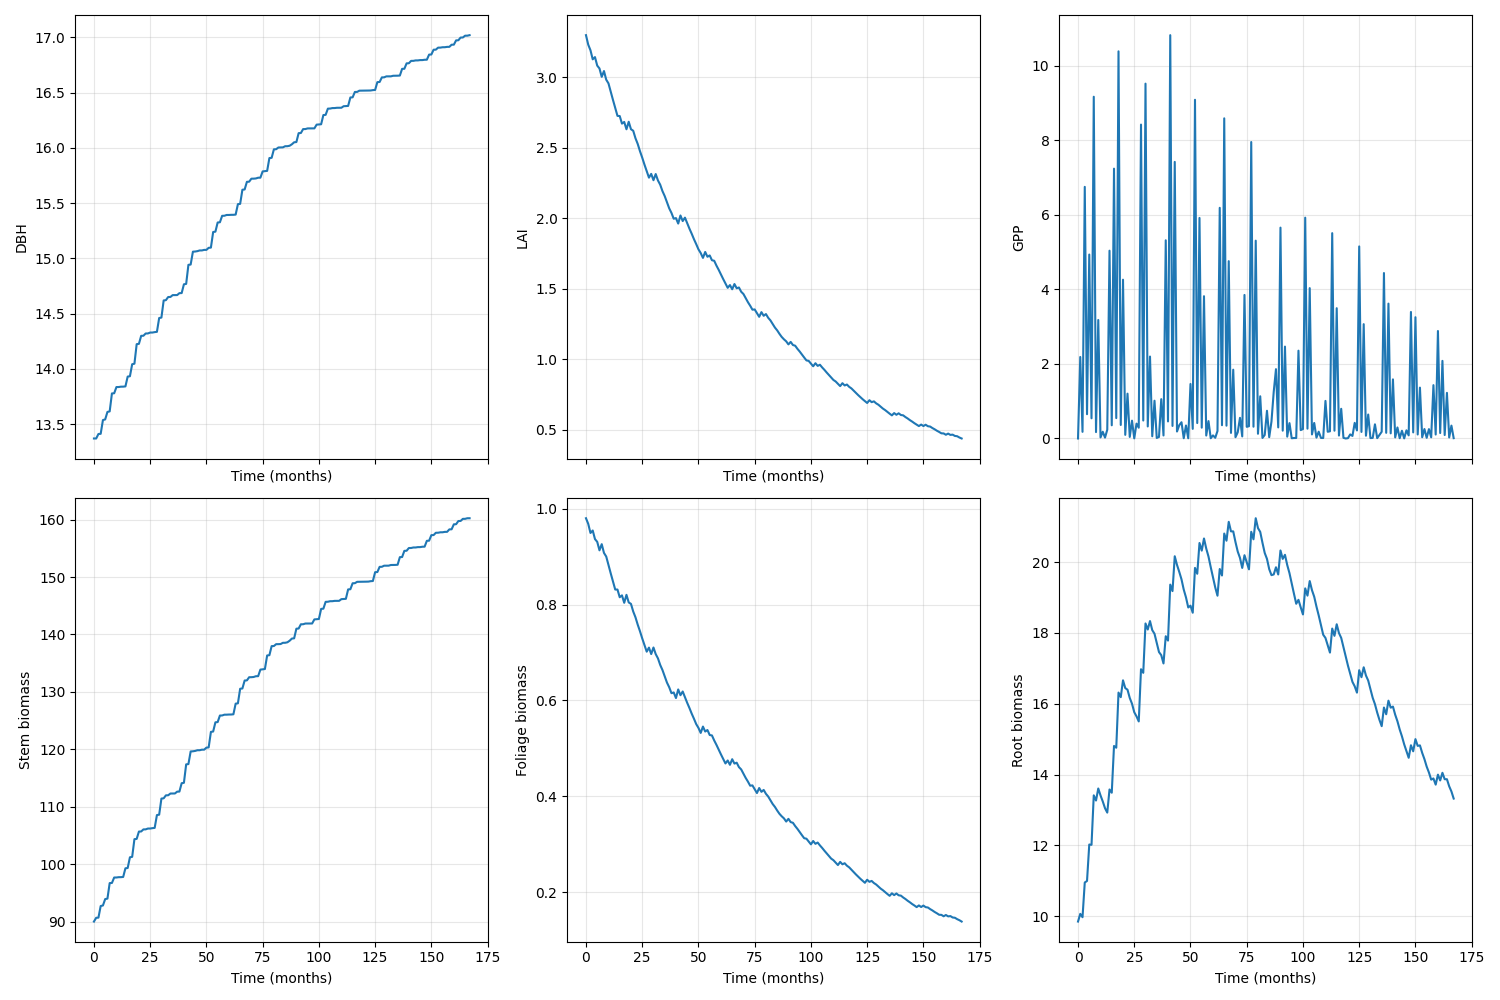
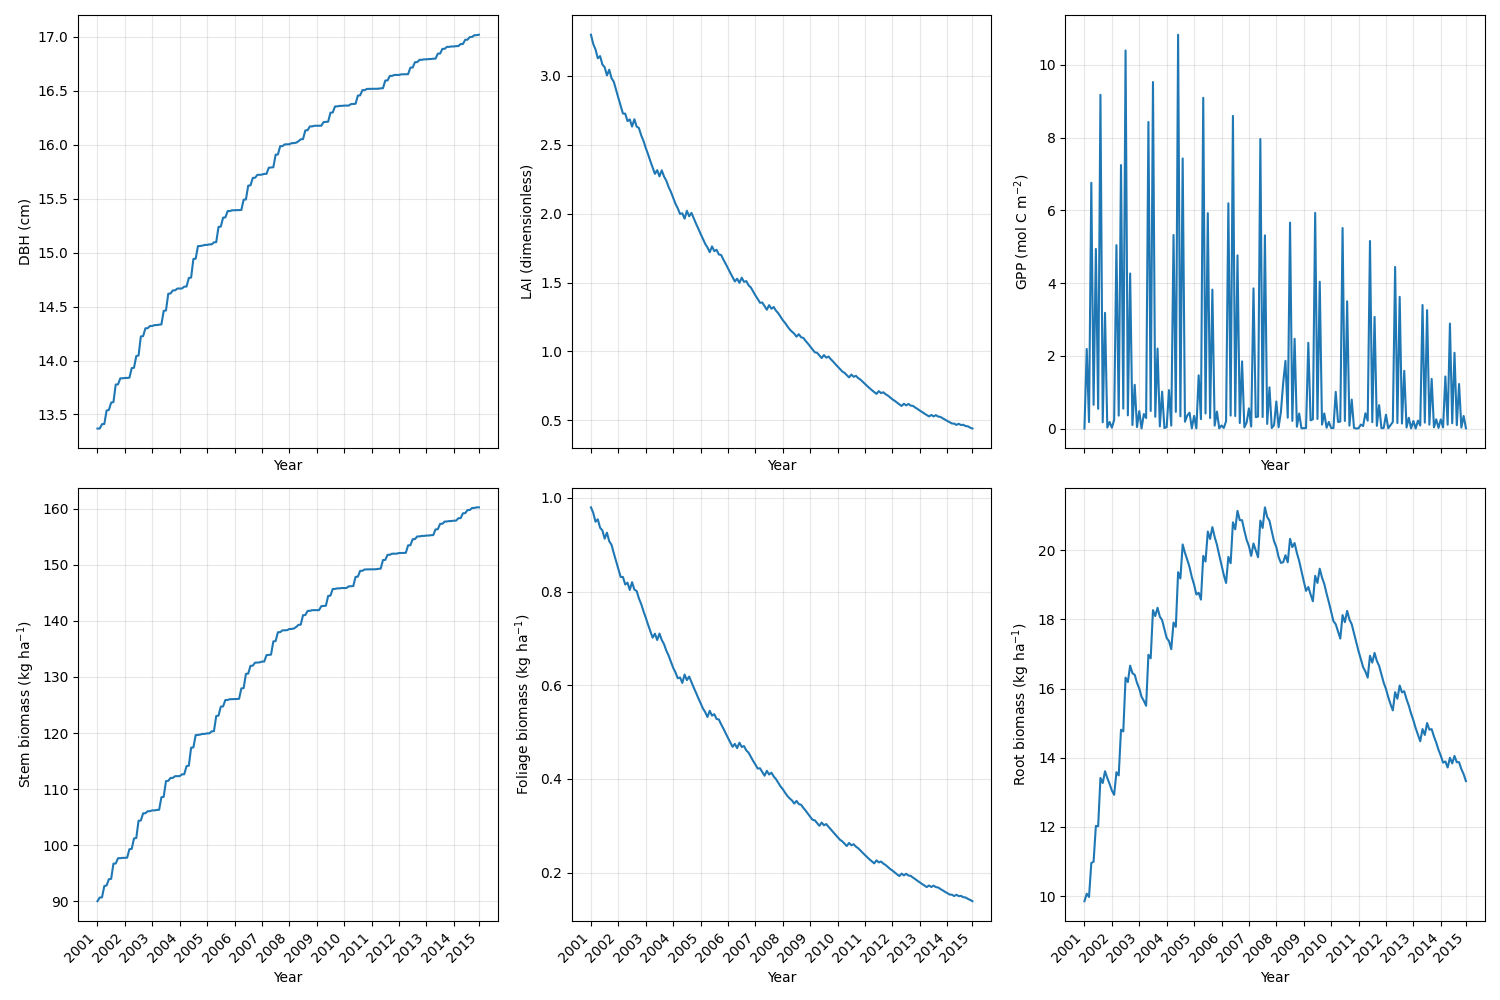
Modified plot function to add units and year in x-labels

diff --git a/src/threePG/helper_function.py b/src/threePG/helper_function.py
@@ -5,6 +5,7 @@ from typing import Optional
 import jax
 import jax.numpy as jnp
 import matplotlib.pyplot as plt
+import numpy as np
 from jax import Array
 from model_inputs import State
 
@@ -517,35 +518,54 @@ def ws_final(alphaCx, CoeffCond, Y_val, params, initial_state, climate, site, sp
     return final_state.WS
 
 
-def plot_outputs(outputs):
+def plot_outputs(outputs, start_month):
     """Visualize key 3-PG state variables over time."""
-    months = jnp.arange(outputs["WS"].shape[0])
+    num_months = outputs["WS"].shape[0]
+
+    all_months = [start_month + np.timedelta64(i, "M") for i in range(num_months)]
+    years = [str(m)[:4] for m in all_months]
+
+    months = jnp.arange(num_months)
 
     fig, axes = plt.subplots(2, 3, figsize=(15, 10), sharex=True)
 
+    # Top row
     axes[0, 0].plot(months, outputs["DBH"])
-    axes[0, 0].set_ylabel("DBH")
+    axes[0, 0].set_ylabel(r"DBH (cm)")
 
     axes[0, 1].plot(months, outputs["LAI"])
-    axes[0, 1].set_ylabel("LAI")
+    axes[0, 1].set_ylabel("LAI (dimensionless)")
 
     axes[0, 2].plot(months, outputs["GPP"])
-    axes[0, 2].set_ylabel("GPP")
+    axes[0, 2].set_ylabel(r"GPP ($\mathrm{mol\ C\ m^{-2}}$)")
 
+    # Bottom row
     axes[1, 0].plot(months, outputs["WS"])
-    axes[1, 0].set_ylabel("Stem biomass (kg)")
+    axes[1, 0].set_ylabel(r"Stem biomass ($\mathrm{kg\ ha^{-1}}$)")
 
     axes[1, 1].plot(months, outputs["WF"])
-    axes[1, 1].set_ylabel("Foliage biomass (kg)")
+    axes[1, 1].set_ylabel(r"Foliage biomass ($\mathrm{kg\ ha^{-1}}$)")
 
     axes[1, 2].plot(months, outputs["WR"])
-    axes[1, 2].set_ylabel("Root biomass (kg)")
+    axes[1, 2].set_ylabel(r"Root biomass ($\mathrm{kg\ ha^{-1}}$)")
+
+    tick_indices = [
+        i for i, m in enumerate(all_months) if m.astype("datetime64[M]").astype(int) % 12 == 0
+    ]
+    tick_labels = [years[i] for i in tick_indices]
+    last_year = int(years[-1])
+    if int(tick_labels[-1]) < last_year + 1:
+        tick_indices.append(num_months - 1)
+        tick_labels.append(str(last_year + 1))
 
     for ax in axes.flat:
+        ax.set_xticks(tick_indices)
+        ax.set_xticklabels(tick_labels, rotation=45, ha="right")
         ax.grid(True, alpha=0.3)
-        ax.set_xlabel("Time (months)")
+        ax.set_xlabel("Year")
 
     plt.tight_layout()
+    plt.savefig("./images/3PG.png")
     plt.show()
 
 

diff --git a/src/threePG/3PG_model_impl.py b/src/threePG/3PG_model_impl.py
@@ -79,4 +79,4 @@ if __name__ == "__main__":
     print("∂WS/∂CoeffCond:", grad_Kg)
     print("∂WS/∂Y:", grad_Y)
 
-    plot_outputs(outputs)
+    plot_outputs(outputs, climate.start_month)
